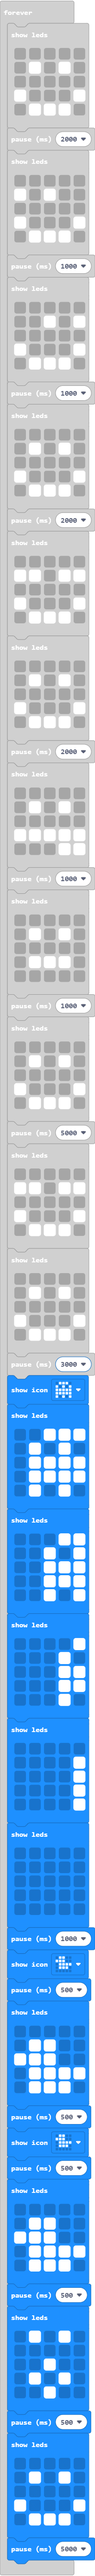
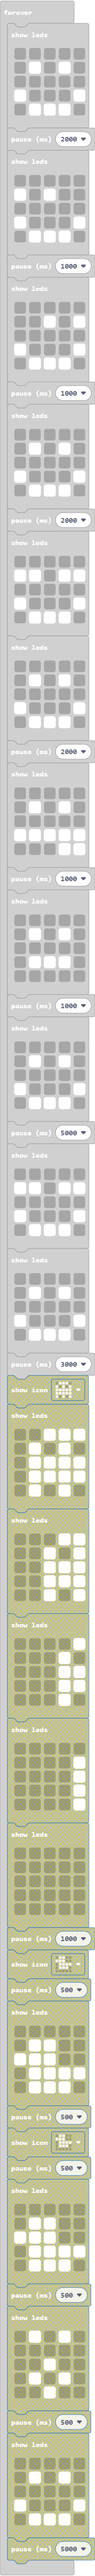
Update main.blocks, main.ts

diff --git a/main.ts b/main.ts
@@ -211,77 +211,4 @@ basic.forever(function () {
         . # # # .
         `)
     basic.pause(3000)
-    basic.showIcon(IconNames.Ghost)
-    basic.showLeds(`
-        . . # # #
-        . # . # .
-        . # # # #
-        . # # # #
-        . # . # .
-        `)
-    basic.showLeds(`
-        . . . # #
-        . . # . #
-        . . # # #
-        . . # # #
-        . . # . #
-        `)
-    basic.showLeds(`
-        . . . . #
-        . . . # .
-        . . . # #
-        . . . # #
-        . . . # .
-        `)
-    basic.showLeds(`
-        . . . . .
-        . . . . #
-        . . . . #
-        . . . . #
-        . . . . #
-        `)
-    basic.showLeds(`
-        . . . . .
-        . . . . .
-        . . . . .
-        . . . . .
-        . . . . .
-        `)
-    basic.pause(1000)
-    basic.showIcon(IconNames.Duck)
-    basic.pause(500)
-    basic.showLeds(`
-        . . . . .
-        . # # . .
-        # # # . .
-        . # # # #
-        . # # # .
-        `)
-    basic.pause(500)
-    basic.showIcon(IconNames.Duck)
-    basic.pause(500)
-    basic.showLeds(`
-        . . . . .
-        . # # . .
-        # # # . .
-        . # # # #
-        . # # # .
-        `)
-    basic.pause(500)
-    basic.showLeds(`
-        . # . # .
-        . . . . .
-        . . # . .
-        . # . # .
-        . . # . .
-        `)
-    basic.pause(500)
-    basic.showLeds(`
-        . . . . .
-        . # . # .
-        . . . . .
-        # . . . #
-        . # # # .
-        `)
-    basic.pause(5000)
 })
